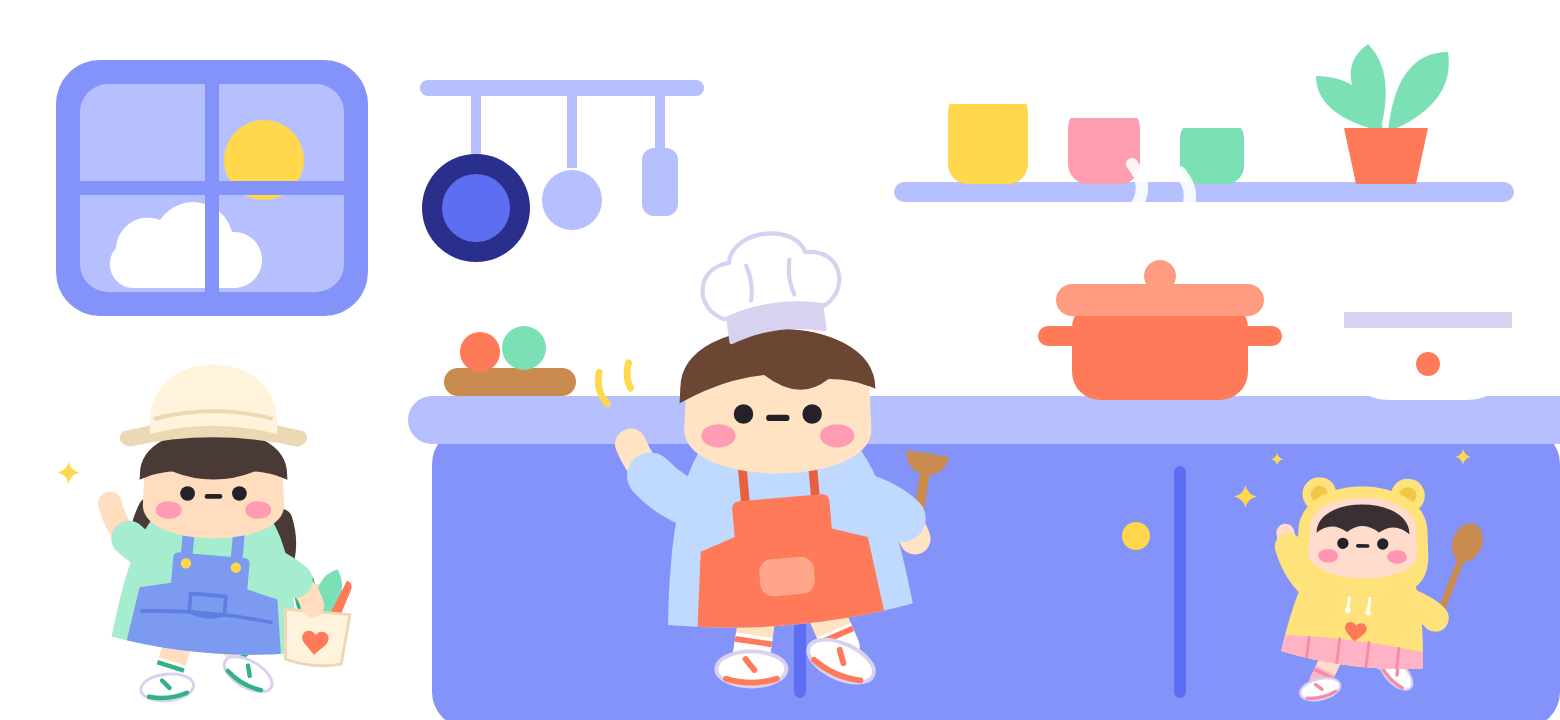
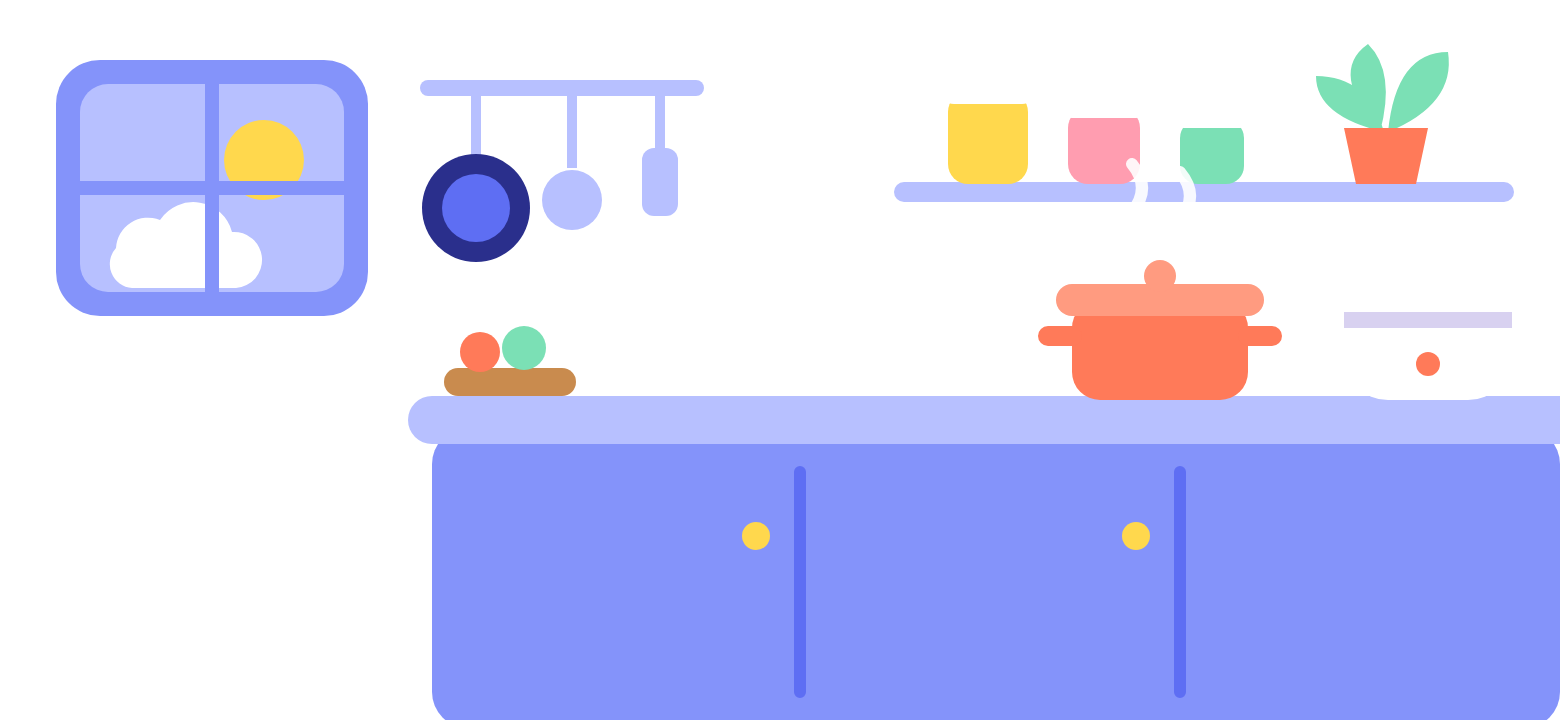
Animate every character and show the seated taster's legs
Scenes are now drawn without characters and the app places each one on top
with its own motion, so in the kitchen Bai Toey bobs, Chef Jiw sways as he
waves and Nong Chim hops. Characters elsewhere move too: a gentle bob, a
side-to-side sway or the jump, with staggered starts and no movement when
the device asks for reduced motion.

The seated taster's legs are drawn in front of the skirt, so the legs,
socks and shoes all show.

Claude-Session: https://claude.ai/code/session_01YRit4BDrXmu1xBXH17a6cf

diff --git a/src/components/ui.tsx b/src/components/ui.tsx
@@ -5,7 +5,7 @@ import { AccessibilityInfo, Animated, Easing, Modal, Platform, Pressable, Scroll
 import { useSafeAreaInsets } from 'react-native-safe-area-context';
 
 import { Icon, type IconName } from '@/components/icon';
-import { MASCOT } from '@/data/images';
+import { MASCOT, type Motion, type SCENE } from '@/data/images';
 import type { ApiErrorKind } from '@/lib/api';
 import { BETA } from '@/lib/beta';
 import { FREE_PER_DAY } from '@/lib/quota';
@@ -83,30 +83,38 @@ export function Card({ tone = 'soft', children, style, onPress, label }: { tone?
   );
 }
 
-/** ลอยขึ้นลงช้าๆ ให้ภาพดูมีชีวิต หรือ jump = กระโดดดีใจเป็นจังหวะพร้อมเงาที่พื้น หยุดนิ่งถ้าเครื่องตั้งค่าลดการเคลื่อนไหว */
-export function Float({ children, jump }: { children: ReactNode; jump?: boolean }) {
-  const [y] = useState(() => new Animated.Value(0));
+/** ทำให้ภาพมีชีวิต: bob = ลอยขึ้นลงช้าๆ sway = โยกซ้ายขวา (โบกมือ ยืนคิด) jump = กระโดดสองจังหวะพร้อมเงาที่พื้น
+ *  หยุดนิ่งถ้าเครื่องตั้งค่าลดการเคลื่อนไหว delay = หน่วงก่อนเริ่ม ให้ตัวละครหลายตัวไม่ขยับพร้อมกัน */
+export function Float({ children, motion = 'bob', delay = 0 }: { children: ReactNode; motion?: Motion; delay?: number }) {
+  const [v] = useState(() => new Animated.Value(0));
   useEffect(() => {
     let loop: Animated.CompositeAnimation | undefined;
-    const to = (toValue: number, duration: number, easing: (t: number) => number) => Animated.timing(y, { toValue, duration, easing, useNativeDriver: Platform.OS !== 'web' });
-    const steps = jump
-      ? [to(-20, 240, Easing.out(Easing.quad)), to(0, 240, Easing.in(Easing.quad)), to(-12, 180, Easing.out(Easing.quad)), to(0, 180, Easing.in(Easing.quad)), Animated.delay(700)]
-      : [to(-6, 1400, Easing.inOut(Easing.sin)), to(0, 1400, Easing.inOut(Easing.sin))];
-    AccessibilityInfo.isReduceMotionEnabled().then((reduce) => { if (!reduce) { loop = Animated.loop(Animated.sequence(steps)); loop.start(); } }).catch(() => {});
-    return () => loop?.stop();
-  }, [y, jump]);
-  if (!jump) return <Animated.View style={{ transform: [{ translateY: y }] }}>{children}</Animated.View>;
+    const to = (toValue: number, duration: number, easing: (t: number) => number) => Animated.timing(v, { toValue, duration, easing, useNativeDriver: Platform.OS !== 'web' });
+    const sin = Easing.inOut(Easing.sin), up = Easing.out(Easing.quad), down = Easing.in(Easing.quad);
+    const steps = {
+      bob: [to(-6, 1400, sin), to(0, 1400, sin)],
+      sway: [to(1, 800, sin), to(-1, 1600, sin), to(0, 800, sin)],
+      jump: [to(-20, 240, up), to(0, 240, down), to(-12, 180, up), to(0, 180, down), Animated.delay(900)],
+    }[motion];
+    let timer: ReturnType<typeof setTimeout> | undefined;
+    AccessibilityInfo.isReduceMotionEnabled().then((reduce) => {
+      if (!reduce) timer = setTimeout(() => { loop = Animated.loop(Animated.sequence(steps)); loop.start(); }, delay);
+    }).catch(() => {});
+    return () => { clearTimeout(timer); loop?.stop(); };
+  }, [v, motion, delay]);
+  if (motion === 'sway') return <Animated.View style={{ transformOrigin: 'bottom', transform: [{ rotate: v.interpolate({ inputRange: [-1, 1], outputRange: ['-4deg', '4deg'] }) }] }}>{children}</Animated.View>;
+  if (motion === 'bob') return <Animated.View style={{ transform: [{ translateY: v }] }}>{children}</Animated.View>;
   return (
-    <View style={{ alignItems: 'center' }}>
-      <Animated.View style={{ transform: [{ translateY: y }] }}>{children}</Animated.View>
+    <View>
+      <Animated.View style={{ transform: [{ translateY: v }] }}>{children}</Animated.View>
       {/* เงาอยู่กับพื้น หดเล็กลงตอนตัวลอย */}
-      <Animated.View style={{ width: 56, height: 8, marginTop: -4, borderRadius: radius.pill, backgroundColor: 'rgba(36,33,43,0.14)', transform: [{ scaleX: y.interpolate({ inputRange: [-20, 0], outputRange: [0.6, 1] }) }] }} />
+      <Animated.View style={{ alignSelf: 'center', width: '46%', height: 6, marginTop: -4, borderRadius: radius.pill, backgroundColor: 'rgba(36,33,43,0.14)', transform: [{ scaleX: v.interpolate({ inputRange: [-20, 0], outputRange: [0.6, 1] }) }] }} />
     </View>
   );
 }
 
 /** หัวหน้าจอพร้อมมาสคอต พื้นสีสดประจำหน้า แล้วต่อด้วยแผ่นเนื้อหาสีพื้น */
-export function Screen({ tint, title, subtitle, mascot, scene, onBack, backLabel, right, children, footer }: { tint: string; title: string; subtitle?: string; mascot?: number; scene?: { source: number; ratio: number }; onBack?: () => void; backLabel?: string; right?: ReactNode; children: ReactNode; footer?: ReactNode }) {
+export function Screen({ tint, title, subtitle, mascot, scene, onBack, backLabel, right, children, footer }: { tint: string; title: string; subtitle?: string; mascot?: number; scene?: (typeof SCENE)[keyof typeof SCENE]; onBack?: () => void; backLabel?: string; right?: ReactNode; children: ReactNode; footer?: ReactNode }) {
   const { colors, isDark } = useSettings();
   const insets = useSafeAreaInsets();
   return (
@@ -120,7 +128,16 @@ export function Screen({ tint, title, subtitle, mascot, scene, onBack, backLabel
         {right}
         {mascot && <Float><Image source={mascot} style={s.mascot} contentFit="contain" accessible={false} /></Float>}
       </View>
-      {scene && <Image source={scene.source} style={{ width: '100%', aspectRatio: scene.ratio, marginTop: -space.sm }} contentFit="contain" accessible={false} />}
+      {scene && (
+        <View style={{ width: '100%', aspectRatio: scene.ratio, marginTop: -space.sm }} accessibilityElementsHidden importantForAccessibility="no-hide-descendants">
+          <Image source={scene.source} style={StyleSheet.absoluteFill} contentFit="contain" accessible={false} />
+          {scene.cast.map((c, k) => (
+            <View key={k} style={{ position: 'absolute', left: `${c.left * 100}%`, top: `${c.top * 100}%`, width: `${c.width * 100}%`, aspectRatio: 1 }}>
+              <Float motion={c.motion} delay={c.delay}><Image source={c.source} style={{ width: '100%', aspectRatio: 1 }} contentFit="contain" accessible={false} /></Float>
+            </View>
+          ))}
+        </View>
+      )}
       <View style={[s.sheet, { backgroundColor: colors.bg }]}>
         <ScrollView contentContainerStyle={{ padding: space.lg, gap: space.md, paddingBottom: footer ? 120 : space.xxl }} keyboardShouldPersistTaps="handled">
           {children}
@@ -155,7 +172,7 @@ export function Skeleton({ lines = 2, label }: { lines?: number; label: string }
   return (
     <View accessible accessibilityRole="progressbar" accessibilityLabel={label} style={[s.card, { backgroundColor: colors.surfaceSoft, gap: space.sm }]}>
       <View style={{ flexDirection: 'row', alignItems: 'center', gap: space.sm }}>
-        <Image source={MASCOT.think} style={{ width: 48, height: 48 }} contentFit="contain" accessible={false} />
+        <Float motion="sway"><Image source={MASCOT.think} style={{ width: 48, height: 48 }} contentFit="contain" accessible={false} /></Float>
         <T v="smallBold" tone="muted">{label}</T>
       </View>
       {Array.from({ length: lines }, (_, k) => <View key={k} style={{ height: 14, width: k === lines - 1 ? '60%' : '100%', borderRadius: radius.pill, backgroundColor: colors.line }} />)}

diff --git a/src/data/images.ts b/src/data/images.ts
@@ -30,12 +30,6 @@ export const DISH_TINT: Record<string, string> = {
   'green-curry': '#8FDB8A', 'moo-palo': '#A7B0FF', 'prik-khing': '#FFB35C',
 };
 
-// ฉากเต็มความกว้างใต้ชื่อหน้าจอ พื้นโปร่งใส วาดให้เข้ากับสีหัวจอของหน้านั้น
-export const SCENE = {
-  home: { source: require('@/assets/images/chef/scene-home.png'), ratio: 780 / 360 }, // ครัวของทีมเชฟ (หัวจอสีน้ำเงิน)
-  plan: { source: require('@/assets/images/chef/scene-plan.png'), ratio: 780 / 300 }, // แผงตลาดที่ใบเตยไปซื้อของ (หัวจอสีส้ม)
-};
-
 // ทีมเชฟ ตัวละครสามตัว แต่ละตัวดูแลงานของตัวเอง ใช้เฉพาะจังหวะที่ท่านั้นมีความหมาย ไม่แปะทุกหน้า
 export const MASCOT = {
   // เชฟจิ๋ว: พาทำอาหาร
@@ -52,3 +46,23 @@ export const MASCOT = {
   yum: require('@/assets/images/chef/yum.png'), // คะแนนดี
   hmm: require('@/assets/images/chef/hmm.png'), // ยังปรับได้อีก
 };
+
+export type Motion = 'bob' | 'jump' | 'sway';
+/** ฉากเต็มความกว้างใต้ชื่อหน้าจอ: ภาพพื้นหลังโปร่งใสที่วาดให้เข้ากับสีหัวจอ แล้ววางตัวละครทับทีละตัวเพื่อให้ขยับได้
+ *  ตำแหน่งเป็นสัดส่วนของฉาก (ซ้าย บน กว้าง) ตัวละครเป็นภาพจัตุรัส */
+export const SCENE = {
+  // ครัวของทีมเชฟ (หัวจอสีน้ำเงิน): ใบเตยกลับจากตลาด เชฟจิ๋วโบกมือ น้องชิมกระโดดรอ
+  home: {
+    source: require('@/assets/images/chef/scene-home.png'), ratio: 780 / 360,
+    cast: [
+      { source: MASCOT.shop, left: 0.008, top: 0.46, width: 0.246, motion: 'bob', delay: 400 },
+      { source: MASCOT.hi, left: 0.344, top: 0.278, width: 0.326, motion: 'sway', delay: 0 },
+      { source: MASCOT.yum, left: 0.759, top: 0.528, width: 0.215, motion: 'jump', delay: 900 },
+    ],
+  },
+  // แผงตลาด (หัวจอสีส้ม): ใบเตยเดินเลือกของ
+  plan: {
+    source: require('@/assets/images/chef/scene-plan.png'), ratio: 780 / 300,
+    cast: [{ source: MASCOT.shop, left: 0.038, top: 0.233, width: 0.295, motion: 'bob', delay: 0 }],
+  },
+} satisfies Record<string, { source: number; ratio: number; cast: { source: number; left: number; top: number; width: number; motion: Motion; delay: number }[] }>;

diff --git a/src/app/cook/[id].tsx b/src/app/cook/[id].tsx
@@ -187,7 +187,7 @@ function Timer({ seconds, name, endAt, onStart, t }: { seconds: number; name: st
           <Circle cx={RING / 2} cy={RING / 2} r={RING_R} stroke={done ? onPastel.success : vivid.indigo} strokeWidth={14} strokeLinecap="round" fill="none"
             strokeDasharray={RING_C} strokeDashoffset={RING_C * (1 - Math.max(0, Math.min(1, left / seconds)))} />
         </Svg>
-        {done ? <Float jump><Image source={MASCOT.cheer} style={{ width: 120, height: 120 }} contentFit="contain" accessible={false} /></Float> : <>
+        {done ? <Float motion="jump"><Image source={MASCOT.cheer} style={{ width: 120, height: 120 }} contentFit="contain" accessible={false} /></Float> : <>
           <T v="smallBold" tone="pastelMuted">{t('cook.timer')}</T>
           <T v="hero" tone="pastel" accessibilityRole="header">{mmss(left)}</T>
         </>}
@@ -301,8 +301,8 @@ function Taste({ r }: { r: Recipe }) {
           <T v="title" accessibilityRole="header">{score === null ? t('taste.title') : t('taste.result')}</T>
           {score === null && <T tone="muted">{t('taste.intro')}</T>}
         </View>
-        {score !== null && score >= 4 ? <Float jump><Image source={MASCOT.yum} style={{ width: 120, height: 120 }} contentFit="contain" accessible={false} /></Float>
-          : <Image source={score === null ? MASCOT.sip : MASCOT.hmm} style={{ width: 120, height: 120 }} contentFit="contain" accessible={false} />}
+        {score !== null && score >= 4 ? <Float motion="jump"><Image source={MASCOT.yum} style={{ width: 120, height: 120 }} contentFit="contain" accessible={false} /></Float>
+          : <Float motion={score === null ? 'bob' : 'sway'}><Image source={score === null ? MASCOT.sip : MASCOT.hmm} style={{ width: 120, height: 120 }} contentFit="contain" accessible={false} /></Float>}
       </View>
       {score !== null && (
         <Card tone="accent" style={{ alignItems: 'center' }}>

diff --git a/src/app/onboarding.tsx b/src/app/onboarding.tsx
@@ -4,7 +4,7 @@ import { useState } from 'react';
 import { Pressable, ScrollView, StyleSheet, View } from 'react-native';
 import { useSafeAreaInsets } from 'react-native-safe-area-context';
 
-import { Button, Card, Chip, T, Thumb } from '@/components/ui';
+import { Button, Card, Chip, Float, T, Thumb } from '@/components/ui';
 import { IMG, MASCOT } from '@/data/images';
 import { DEFAULT_OPTS, MENU } from '@/data/recipes';
 import { BETA } from '@/lib/beta';
@@ -36,7 +36,7 @@ export default function Onboarding() {
       <View style={[s.top, { paddingTop: insets.top + space.md }]}>
         <Button kind={isDark ? 'secondary' : 'onPastelLight'} label={t('ob.skip')} onPress={() => finish('/')} />
       </View>
-      <Image source={MASCOT.hi} style={s.mascot} contentFit="contain" accessible={false} />
+      <View style={{ alignSelf: 'center' }}><Float motion="sway"><Image source={MASCOT.hi} style={s.mascot} contentFit="contain" accessible={false} /></Float></View>
       <View style={[s.sheet, { backgroundColor: colors.bg, paddingBottom: Math.max(insets.bottom, space.lg) }]}>
         <ScrollView contentContainerStyle={{ gap: space.md }}>
           <View style={{ flexDirection: 'row', alignItems: 'center', gap: space.sm }} accessibilityLabel={t('ob.count', { n: step + 1, total: 4 })}>

diff --git a/src/app/(tabs)/index.tsx b/src/app/(tabs)/index.tsx
@@ -58,7 +58,7 @@ export default function Home() {
           <T v="hero" tone="yellow">{price(PER_MEAL)}</T>
           <T v="small" tone="onNavyMuted">{t('plan.sub')}</T>
         </View>
-        <Image source={MASCOT.shop} style={{ width: 104, height: 104 }} contentFit="contain" accessible={false} />
+        <Float><Image source={MASCOT.shop} style={{ width: 104, height: 104 }} contentFit="contain" accessible={false} /></Float>
         <Icon name="next" color="#FFFFFF" />
       </Card>
       {!BETA && (
@@ -75,7 +75,7 @@ export default function Home() {
           <T v="hero" tone="pastel">{runs.length}</T>
           <T v="bodyBold" tone="pastel">{t('home.cooked')}</T>
         </View>
-        <Image source={runs.length ? MASCOT.cheer : MASCOT.cook} style={{ width: 96, height: 96 }} contentFit="contain" accessible={false} />
+        <Float motion={runs.length ? 'jump' : 'sway'}><Image source={runs.length ? MASCOT.cheer : MASCOT.cook} style={{ width: 96, height: 96 }} contentFit="contain" accessible={false} /></Float>
       </Card>
     </Screen>
   );

diff --git a/src/app/plan.tsx b/src/app/plan.tsx
@@ -4,7 +4,7 @@ import { useState } from 'react';
 import { Pressable, StyleSheet, View } from 'react-native';
 
 import { Icon } from '@/components/icon';
-import { Button, Card, Screen, T, Thumb } from '@/components/ui';
+import { Button, Card, Float, Screen, T, Thumb } from '@/components/ui';
 import { DISH_TINT, IMG, MASCOT, SCENE } from '@/data/images';
 import { MENU, planShopping, SUNDAY_PLAN } from '@/data/recipes';
 import { useSettings } from '@/lib/settings';
@@ -61,7 +61,7 @@ export default function Plan() {
           <T v="subheading" accessibilityRole="header">{t('plan.shop')}</T>
           <T v="small" tone="muted">{t('detail.haveHint')}</T>
         </View>
-        <Image source={MASCOT.list} style={{ width: 84, height: 84 }} contentFit="contain" accessible={false} />
+        <Float motion="sway"><Image source={MASCOT.list} style={{ width: 84, height: 84 }} contentFit="contain" accessible={false} /></Float>
       </View>
       {SHOP.items.map((g) => {
         const on = have.includes(g.id);

diff --git a/assets/images/chef/src/draw.py b/assets/images/chef/src/draw.py
@@ -45,14 +45,14 @@ def legs(skin, sock, accent, feet, drop):
     return out
 _n = [0]
 def person(skin, top, clothes, hair, accent, look=(0, 0), mouth=True, sock='#FFFFFF', back='', under_head='', arms_back='', arms_front='', hat='', front='', blush=0.85,
-           lean=0, tilt=0, feet=STAND, drop=0, ground=''):
-    """lean = เอนตัวท่อนบน (องศา) tilt = เอียงคอ feet = ตำแหน่งเท้า drop = ย่อตัวลง (นั่ง) ground = ของที่พื้น การกระโดดทำเป็นแอนิเมชันในแอป"""
+           lean=0, tilt=0, feet=STAND, drop=0, ground='', legs_front=False):
+    """lean = เอนตัวท่อนบน (องศา) tilt = เอียงคอ feet = ตำแหน่งเท้า drop = ย่อตัวลง (นั่ง) legs_front = ขาอยู่หน้าตัว (นั่งเหยียดขามาข้างหน้า) ground = ของที่พื้น การกระโดดทำเป็นแอนิเมชันในแอป"""
     _n[0] += 1; cid = f'c{_n[0]}'
-    return SVG(f'''<g transform="translate(240 470) scale(0.92) translate(-240 -470)">{ground}<g>{legs(skin, sock, accent, feet, drop)}
+    return SVG(f'''<g transform="translate(240 470) scale(0.92) translate(-240 -470)">{ground}<g>{'' if legs_front else legs(skin, sock, accent, feet, drop)}
 <g transform="translate(0 {drop}) rotate({lean} 240 384)">{back}{arms_back}
 <clipPath id="{cid}"><path d="{TORSO}"/></clipPath><path d="{TORSO}" fill="{top}"/><g clip-path="url(#{cid})">{clothes}</g>
 <g transform="rotate({tilt} 240 236)">{under_head}<path d="{HEAD}" fill="{skin}"/>{hair}{hat}{face(look, mouth, blush)}</g>
-{arms_front}</g></g>{front}</g>''')
+{arms_front}</g>{legs(skin, sock, accent, feet, drop) if legs_front else ''}</g>{front}</g>''')
 
 # ---------- เชฟจิ๋ว: หมวกเชฟ ผมหน้าม้าปัดข้าง เสื้อแขนยาวฟ้า ผ้ากันเปื้อนเต็มตัวสีส้มมีกระเป๋า ----------
 S1, SKY, BROWN = '#FFE3C2', '#BFD9FF', '#6B4632'
@@ -131,7 +131,7 @@ A3 = lambda side, hx, hy, bx=0, by=0: arm(side, hx, hy, bx, by, S3, BUTTER, 0.8)
 bigspoon = lambda x, y, r: f'<g transform="rotate({r} {x} {y})"><path d="M{x} {y+22} v-136" stroke="{WOOD}" stroke-width="12" stroke-linecap="round"/><ellipse cx="{x}" cy="{y-136}" rx="26" ry="35" fill="{WOOD}"/></g>'
 POSES.update({
   # นั่งแบะขาบนเบาะ ชิมจากช้อน
-  'sip': chim(mouth=False, tilt=-6, drop=40, feet=((66, 440, -78), (414, 440, 78)), ground=f'<ellipse cx="240" cy="456" rx="214" ry="22" fill="#CFE3FF"/>',
+  'sip': chim(mouth=False, tilt=-6, drop=40, legs_front=True, feet=((112, 448, -62), (368, 448, 62)), ground=f'<ellipse cx="240" cy="456" rx="214" ry="22" fill="#CFE3FF"/>',
               arms_front=f'<path d="M312 206 L262 192" stroke="{WOOD}" stroke-width="11" stroke-linecap="round"/><ellipse cx="248" cy="188" rx="22" ry="14" fill="{WOOD}"/>' + A3('R', 316, 212, 46, 18) + A3('L', 208, 338, -34, 14),
               front=heart(420, 150, 1.1) + heart(62, 184, 0.7)),
   # กระโดดชูช้อน ขาข้างหนึ่งเตะไปข้างหลัง
@@ -143,9 +143,7 @@ POSES.update({
 })
 for n, svg in POSES.items(): open(n + '.svg', 'w').write(svg)
 
-# ฉาก: ตัวละครอยู่ในที่ของตัวเอง พื้นหลังโปร่งใส ใช้สีอ่อนเข้มของสีหัวจอ แล้วแต้มสีสดเฉพาะของชิ้นเล็ก
-inner = lambda svg: svg[svg.index('>') + 1:svg.rindex('</svg>')]
-put = lambda name, x, y, s: f'<g transform="translate({x} {y}) scale({s})">{inner(POSES[name])}</g>'
+# ฉาก: วาดเฉพาะของในฉาก ตัวละครวางทับในแอปเพื่อให้ขยับได้ (ตำแหน่งอยู่ใน SCENE ที่ src/data/images.ts) พื้นหลังโปร่งใส ใช้สีอ่อนเข้มของสีหัวจอ แล้วแต้มสีสดเฉพาะของชิ้นเล็ก
 scene = lambda w, h, body: f'<svg xmlns="http://www.w3.org/2000/svg" viewBox="0 0 {w} {h}" width="{w}" height="{h}">\n{body}\n</svg>'
 steam = lambda x, y, c='#FFFFFF': f'<path d="M{x} {y} q-10 -12 0 -24 q10 -12 0 -24 M{x+24} {y+4} q-10 -12 0 -24 q10 -12 0 -24" stroke="{c}" stroke-width="6" stroke-linecap="round" fill="none" opacity="0.9"/>'
 
@@ -178,7 +176,6 @@ home = scene(780, 360, ''.join([
   f'<path d="M524 168 h12 M624 168 h12" stroke="{CORAL}" stroke-width="10" stroke-linecap="round"/>',
   # หม้อหุงข้าว
   f'<rect x="672" y="140" width="84" height="60" rx="22" fill="#FFFFFF"/><rect x="672" y="156" width="84" height="8" fill="{HAT_D}"/><circle cx="714" cy="182" r="6" fill="{CORAL}"/>',
-  put('shop', 6, 166, 0.4), put('hi', 268, 100, 0.53), put('yum', 592, 190, 0.35),
 ]))
 open('scene-home.svg', 'w').write(home)
 
@@ -199,6 +196,6 @@ market = scene(780, 300, ''.join([
   f'<ellipse cx="634" cy="204" rx="15" ry="19" fill="#FFFFFF"/><ellipse cx="664" cy="200" rx="15" ry="19" fill="#FFF3DC"/><ellipse cx="694" cy="204" rx="15" ry="19" fill="#FFFFFF"/><ellipse cx="650" cy="186" rx="14" ry="18" fill="#FFF3DC"/><ellipse cx="680" cy="186" rx="14" ry="18" fill="#FFFFFF"/>', crate(604, 212, 128),
   # ป้ายราคา
   ''.join(f'<rect x="{x}" y="238" width="44" height="26" rx="8" fill="#FFFFFF"/><path d="M{x+10} 251 h24" stroke="{O1}" stroke-width="5" stroke-linecap="round"/>' for x in (354, 500, 646)),
-  put('shop', 30, 70, 0.48), star(248, 120, 13, '#FFFFFF'),
+  star(248, 120, 13, '#FFFFFF'),
 ]))
 open('scene-plan.svg', 'w').write(market)

diff --git a/README.md b/README.md
@@ -90,7 +90,9 @@ select created_at, kind, name, contact, paid_note, source from waitlist order by
 
 ท่าทางมีการเอนตัว เอียงคอ ก้าวขา กระโดด และนั่ง (พารามิเตอร์ `lean` `tilt` `feet` `lift` `drop` ของ `person` ในไฟล์วาด) ทุกท่าใช้หน้าเดียวกัน: ตาจุด ปากขีด
 
-ฉาก: หน้าร้านเป็นครัวของทีมเชฟ และหน้าแผนวันอาทิตย์เป็นแผงตลาด (ดู `SCENE` ในไฟล์เดียวกัน) หัวข้อใช้ฟอนต์ Mitr
+ฉาก: หน้าร้านเป็นครัวของทีมเชฟ และหน้าแผนวันอาทิตย์เป็นแผงตลาด ภาพฉากมีแต่ของในฉาก ตัวละครวางทับทีละตัวตามตำแหน่งใน `SCENE` (ไฟล์เดียวกัน) เพื่อให้ขยับได้ หัวข้อใช้ฟอนต์ Mitr
+
+การขยับ: `Float` ใน `src/components/ui.tsx` มี 3 แบบ คือลอยขึ้นลง โยกซ้ายขวา และกระโดดพร้อมเงา ตัวละครทุกจุดในแอปใช้แบบใดแบบหนึ่ง และหยุดนิ่งเมื่อเครื่องตั้งค่าลดการเคลื่อนไหว
 
 วาดเองเป็น SVG: แก้ท่า สี ชุด ฉาก หรือเพิ่มตัวละครที่ `assets/images/chef/src/draw.py` รันแล้วได้ SVG ใหม่ จากนั้น `node raster.js ..` ในโฟลเดอร์เดียวกันแปลงเป็น PNG
 
